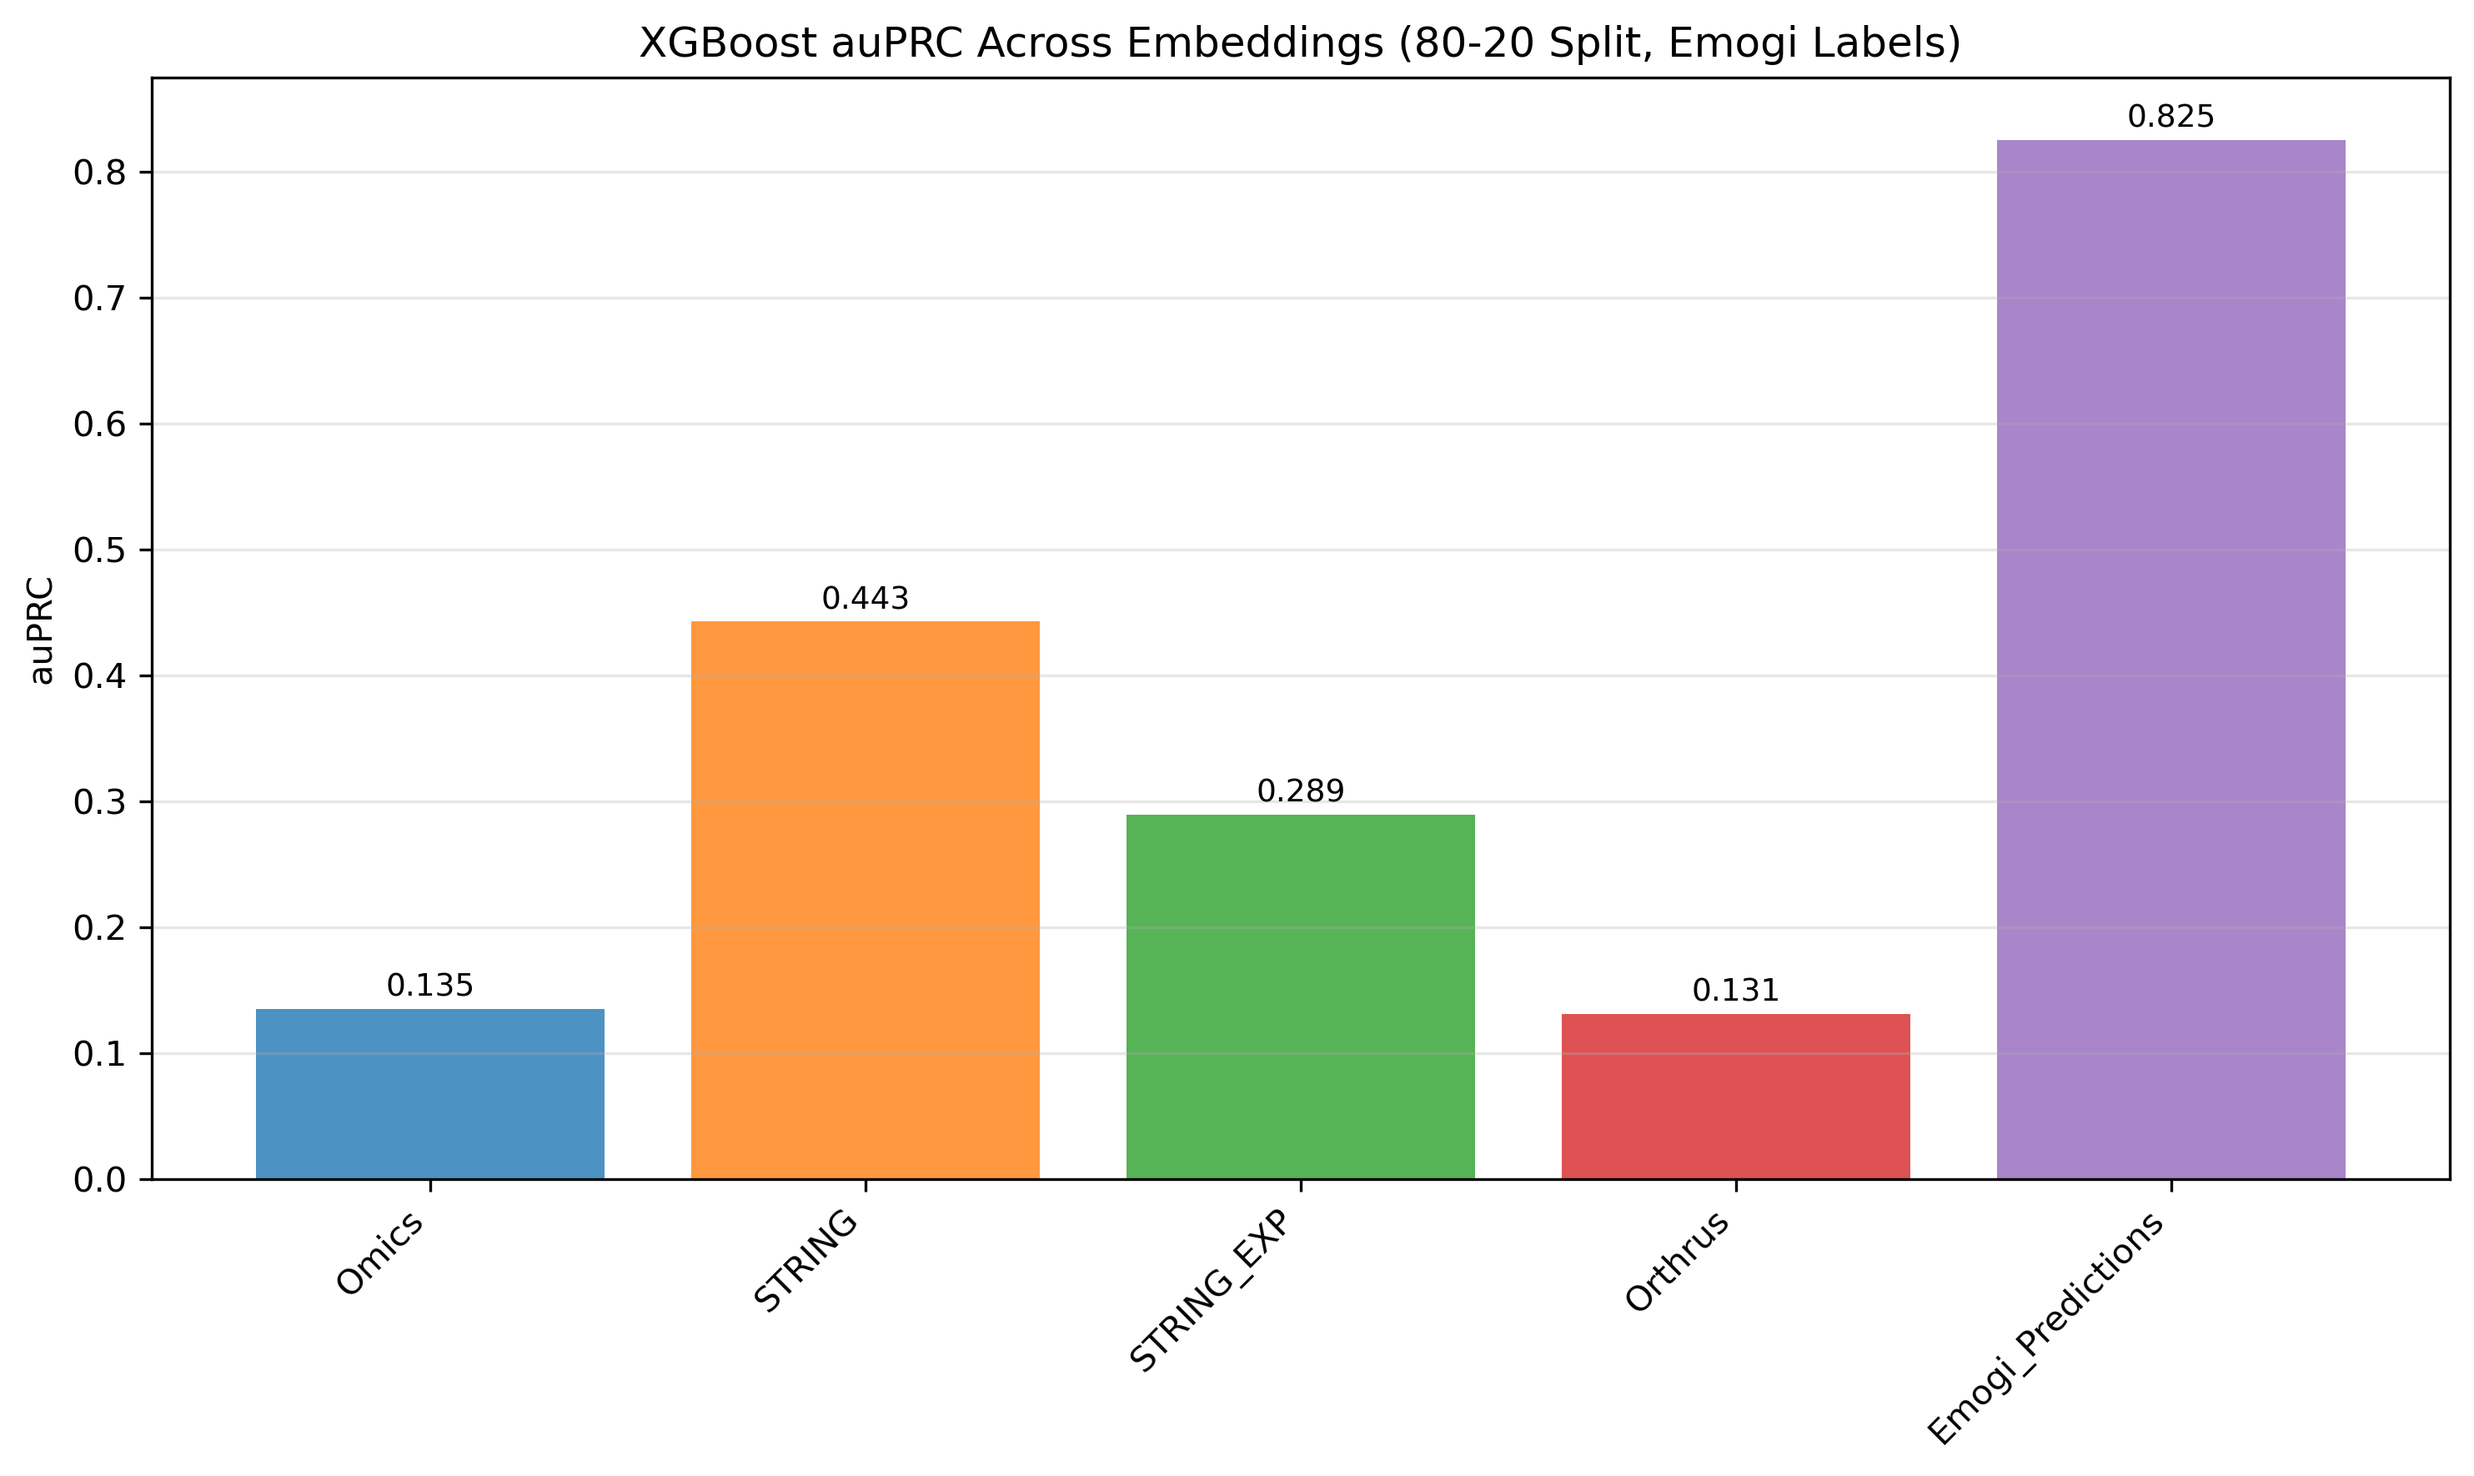
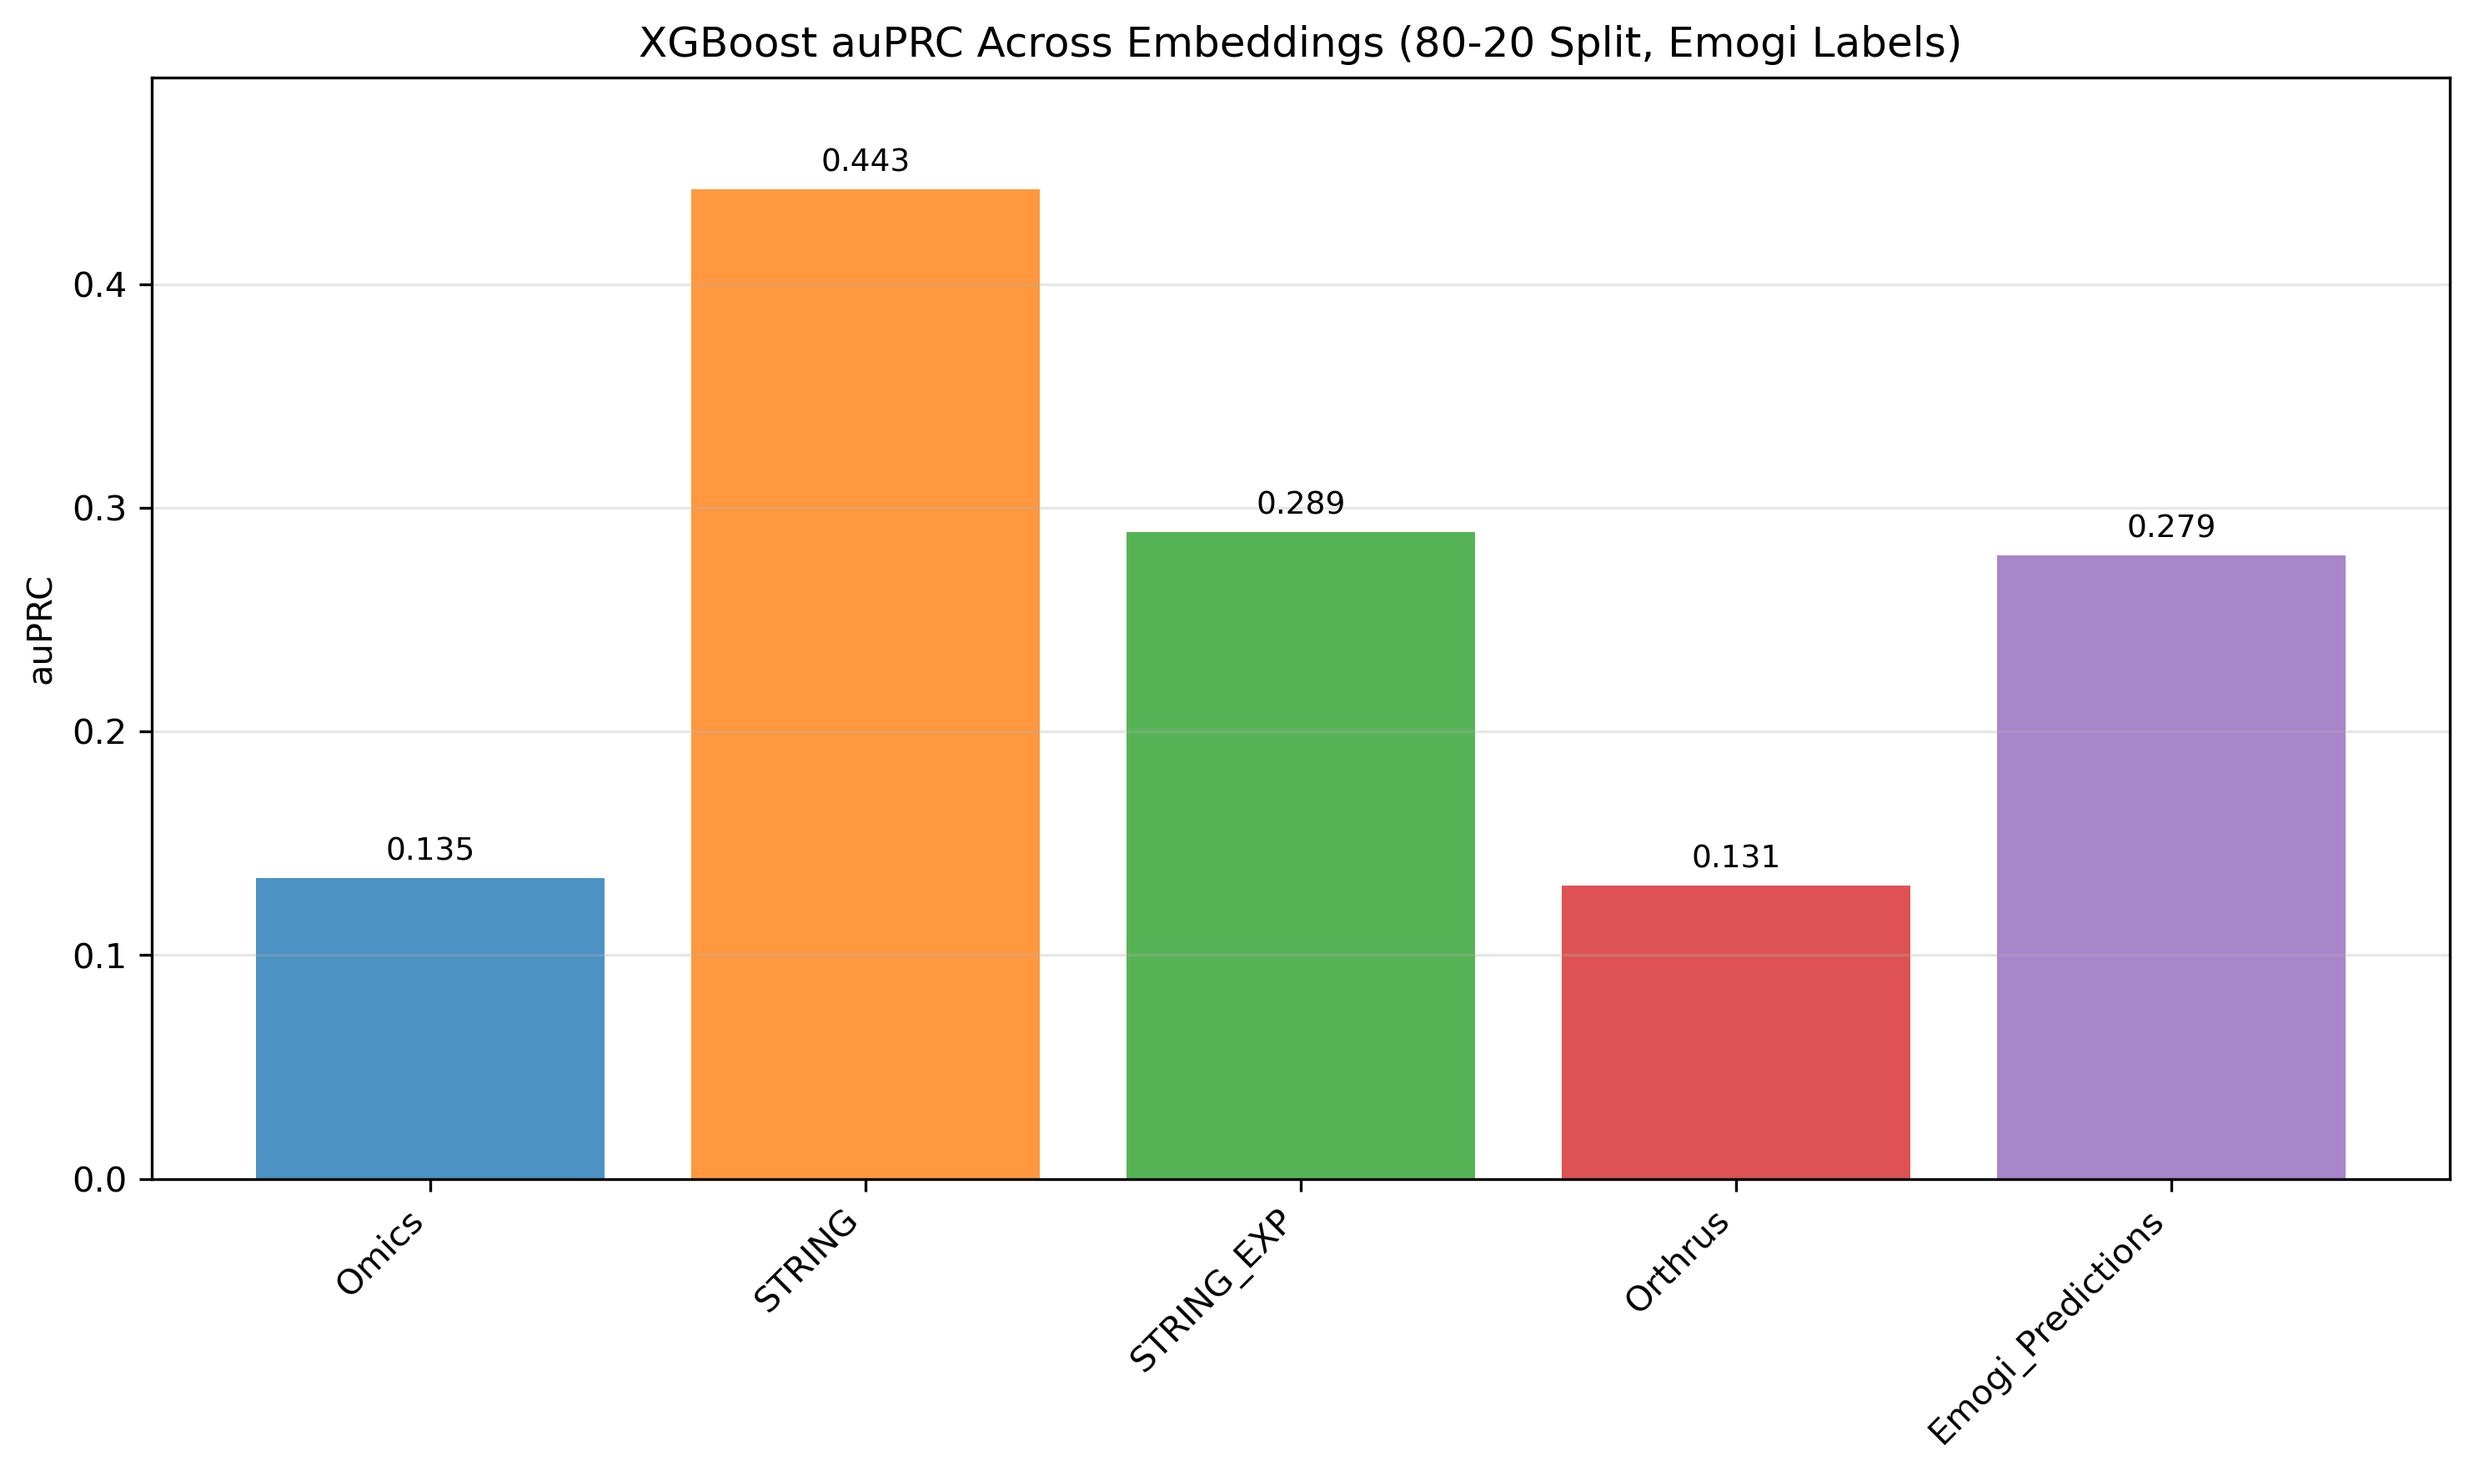
Solve data leakage & Update plots

diff --git a/Cancer Predictions/compare_embeddings_CV.py b/Cancer Predictions/compare_embeddings_CV.py
@@ -39,11 +39,7 @@ def compare_embeddings_pr_curves(embedding_datasets, emogi_data):
     for i, (embedding_name, embedding_df) in enumerate(embedding_datasets.items()):
         try:
             # Merge embedding with emogi data
-            if embedding_name == 'Orthrus':
-                merged = embedding_df.merge(emogi_data, on='gene_id', how='inner')
-                merged.set_index('gene_id', inplace=True)
-            elif embedding_name == 'Emogi_Predictions':
-                # For emogi predictions, we already have gene_id
+            if embedding_name == 'Orthrus' or embedding_name == 'Emogi_Predictions':
                 merged = embedding_df.merge(emogi_data, on='gene_id', how='inner')
                 merged.set_index('gene_id', inplace=True)
             else: 
@@ -64,10 +60,10 @@ def compare_embeddings_pr_curves(embedding_datasets, emogi_data):
             X = X.select_dtypes(include=[np.number])
             y = merged['label']
             
-            # Skip if not enough samples
-            if len(X) < 10 or y.sum() < 5:
-                print(f"Skipping {embedding_name}: insufficient samples (total: {len(X)}, positive: {y.sum()})")
-                continue
+            # Print gene count and class distribution
+            n_positives = y.sum()
+            n_negatives = len(y) - n_positives
+            print(f"{embedding_name}: Using {len(merged)} genes (Pos: {n_positives}, Neg: {n_negatives})")
             
             # Storage for CV results
             cv_precision_rf = []
@@ -241,9 +237,10 @@ def compare_embeddings_auprc_barplots(embedding_datasets, emogi_data):
             X = X.select_dtypes(include=[np.number])
             y = merged['label']
 
-            if len(X) < 10 or y.sum() < 5:
-                print(f"Skipping {embedding_name}: insufficient samples")
-                continue
+            # Print gene count and class distribution
+            n_positives = y.sum()
+            n_negatives = len(y) - n_positives
+            print(f"{embedding_name}: Using {len(merged)} genes (Pos: {n_positives}, Neg: {n_negatives})")
 
             # Storage for CV results
             cv_ap_scores_rf = []

diff --git a/Cancer Predictions/compare_embeddings_80-20.py b/Cancer Predictions/compare_embeddings_80-20.py
@@ -35,11 +35,7 @@ def compare_embeddings_pr_curves(embedding_datasets, emogi_data):
     for i, (embedding_name, embedding_df) in enumerate(embedding_datasets.items()):
         try:
             # Merge embedding with emogi data
-            if embedding_name == 'Orthrus':
-                merged = embedding_df.merge(emogi_data, on='gene_id', how='inner')
-                merged.set_index('gene_id', inplace=True)
-            elif embedding_name == 'Emogi_Predictions':
-                # For emogi predictions, we already have gene_id
+            if embedding_name == 'Orthrus' or embedding_name == 'Emogi_Predictions':
                 merged = embedding_df.merge(emogi_data, on='gene_id', how='inner')
                 merged.set_index('gene_id', inplace=True)
             else: 
@@ -59,6 +55,11 @@ def compare_embeddings_pr_curves(embedding_datasets, emogi_data):
             X = merged.drop(columns_to_drop, axis=1, errors='ignore')
             X = X.select_dtypes(include=[np.number]).reset_index(drop=True)
             y = merged['label'].reset_index(drop=True)
+
+            # Print gene count and class distribution
+            n_positives = y.sum()
+            n_negatives = len(y) - n_positives
+            print(f"{embedding_name}: Using {len(merged)} genes (Pos: {n_positives}, Neg: {n_negatives})")
             
             # Train-test split
             X_train, X_test, y_train, y_test = train_test_split(
@@ -199,9 +200,10 @@ def compare_embeddings_auprc_barplots(embedding_datasets, emogi_data):
             X = X.select_dtypes(include=[np.number]).reset_index(drop=True)
             y = merged['label'].reset_index(drop=True)
 
-            if len(X) < 10 or y.sum() < 5:
-                print(f"Skipping {embedding_name}: insufficient samples")
-                continue
+            # Print gene count and class distribution
+            n_positives = y.sum()
+            n_negatives = len(y) - n_positives
+            print(f"{embedding_name}: Using {len(merged)} genes (Pos: {n_positives}, Neg: {n_negatives})")
 
             # Train-test split
             X_train, X_test, y_train, y_test = train_test_split(
